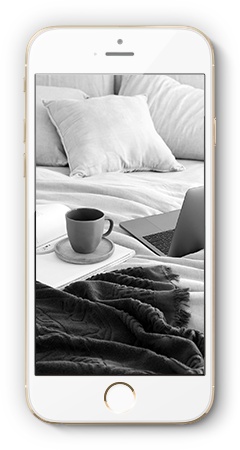
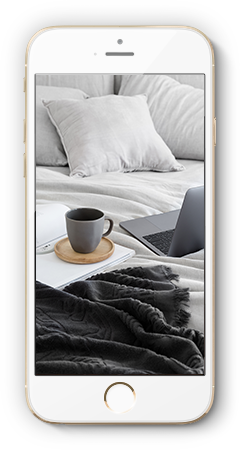
Finalize homepage bg & mobile mockup imgs

Changed region(s): [[0.2042, 0.4978, 0.4958, 0.6222], [0.2625, 0.6222, 0.2917, 0.6533]]

diff --git a/index.html b/index.html
@@ -114,7 +114,7 @@
 								</div>
 							</div>
 							<div class="swiper-slide-bg"
-								style="background-image: url('images/slider/swiper/hero-desktop-v2.jpg');"></div>
+								style="background-image: url('images/slider/swiper/hero-desktop-v2.2.jpg');"></div>
 						</div>
 					</div>
 				</div>
@@ -162,8 +162,8 @@
 					</div>
 				</div><!-- End Portfolio welcome SKA -->
 
+				<!-- Latest Works -->
 				<div class="content-wrap pb-0">
-					<!-- check if this class & div are essential -->
 
 					<div class="section topmargin mb-0 border-bottom-0">
 						<div class="container clearfix">
@@ -178,6 +178,7 @@
 					<!-- check data layout fitRows -->
 					<div id="portfolio" class="portfolio portfolio-reveal row grid-container g-0" data-layout="fitRows">
 
+						<!-- 
 						<article class="portfolio-item col-md-4 col-sm-6 col-12 pf-media pf-icons">
 							<div class="grid-inner">
 								<div class="portfolio-image">
@@ -243,6 +244,7 @@
 								</div>
 							</div>
 						</article>
+						-->
 
 						<article class="portfolio-item col-md-4 col-sm-6 col-12 pf-icons pf-illustrations">
 							<div class="grid-inner">
@@ -287,6 +289,7 @@
 							</div>
 						</article>
 
+						<!-- 
 						<article class="portfolio-item col-md-4 col-sm-6 col-12 pf-uielements pf-media">
 							<div class="grid-inner">
 								<div class="portfolio-image">
@@ -319,6 +322,7 @@
 								</div>
 							</div>
 						</article>
+						-->
 
 						<article class="portfolio-item col-md-4 col-sm-6 col-12 pf-graphics pf-illustrations">
 							<div class="grid-inner">
@@ -632,7 +636,7 @@
 				<div class="row clearfix align-items-stretch">
 
 					<div class="col-lg-6 center col-padding"
-						style="background: url('images/services/macbook-coffee-plant.jpg') center center no-repeat; background-size: cover;">
+						style="background: url('images/services/macbook-coffee-plant-full-width.jpg') center center no-repeat; background-size: cover;">
 					</div>
 
 					<div class="col-lg-6 center col-padding" style="background-color: #F5F5F5;">
@@ -677,7 +681,7 @@
 						</div>
 
 						<div class="col-md-4 center">
-							<img data-animate="fadeInLeft" src="images/services/iphone6-lounge.png" alt="Iphone">
+							<img data-animate="fadeInLeft" src="images/services/iphone7-2.png" alt="Iphone">
 						</div>
 					</div>
 
@@ -686,7 +690,7 @@
 
 				<!-- Feedback -->
 				<div class="section parallax dark my-0 clients-background"
-					style="box-shadow: inset 0 0 0 100vmax rgba(0,0,0,0.6); background-image: url('images/services/feebdback-bg-v2.jpg'); padding: 100px 0;"
+					style="box-shadow: inset 0 0 0 100vmax rgba(0,0,0,0.6); background-image: url('images/services/feedback-bg-v1.jpg'); padding: 100px 0;"
 					data-bottom-top="background-position:0px 300px;" data-top-bottom="background-position:0px -300px;">
 
 					<div class="heading-block center">
